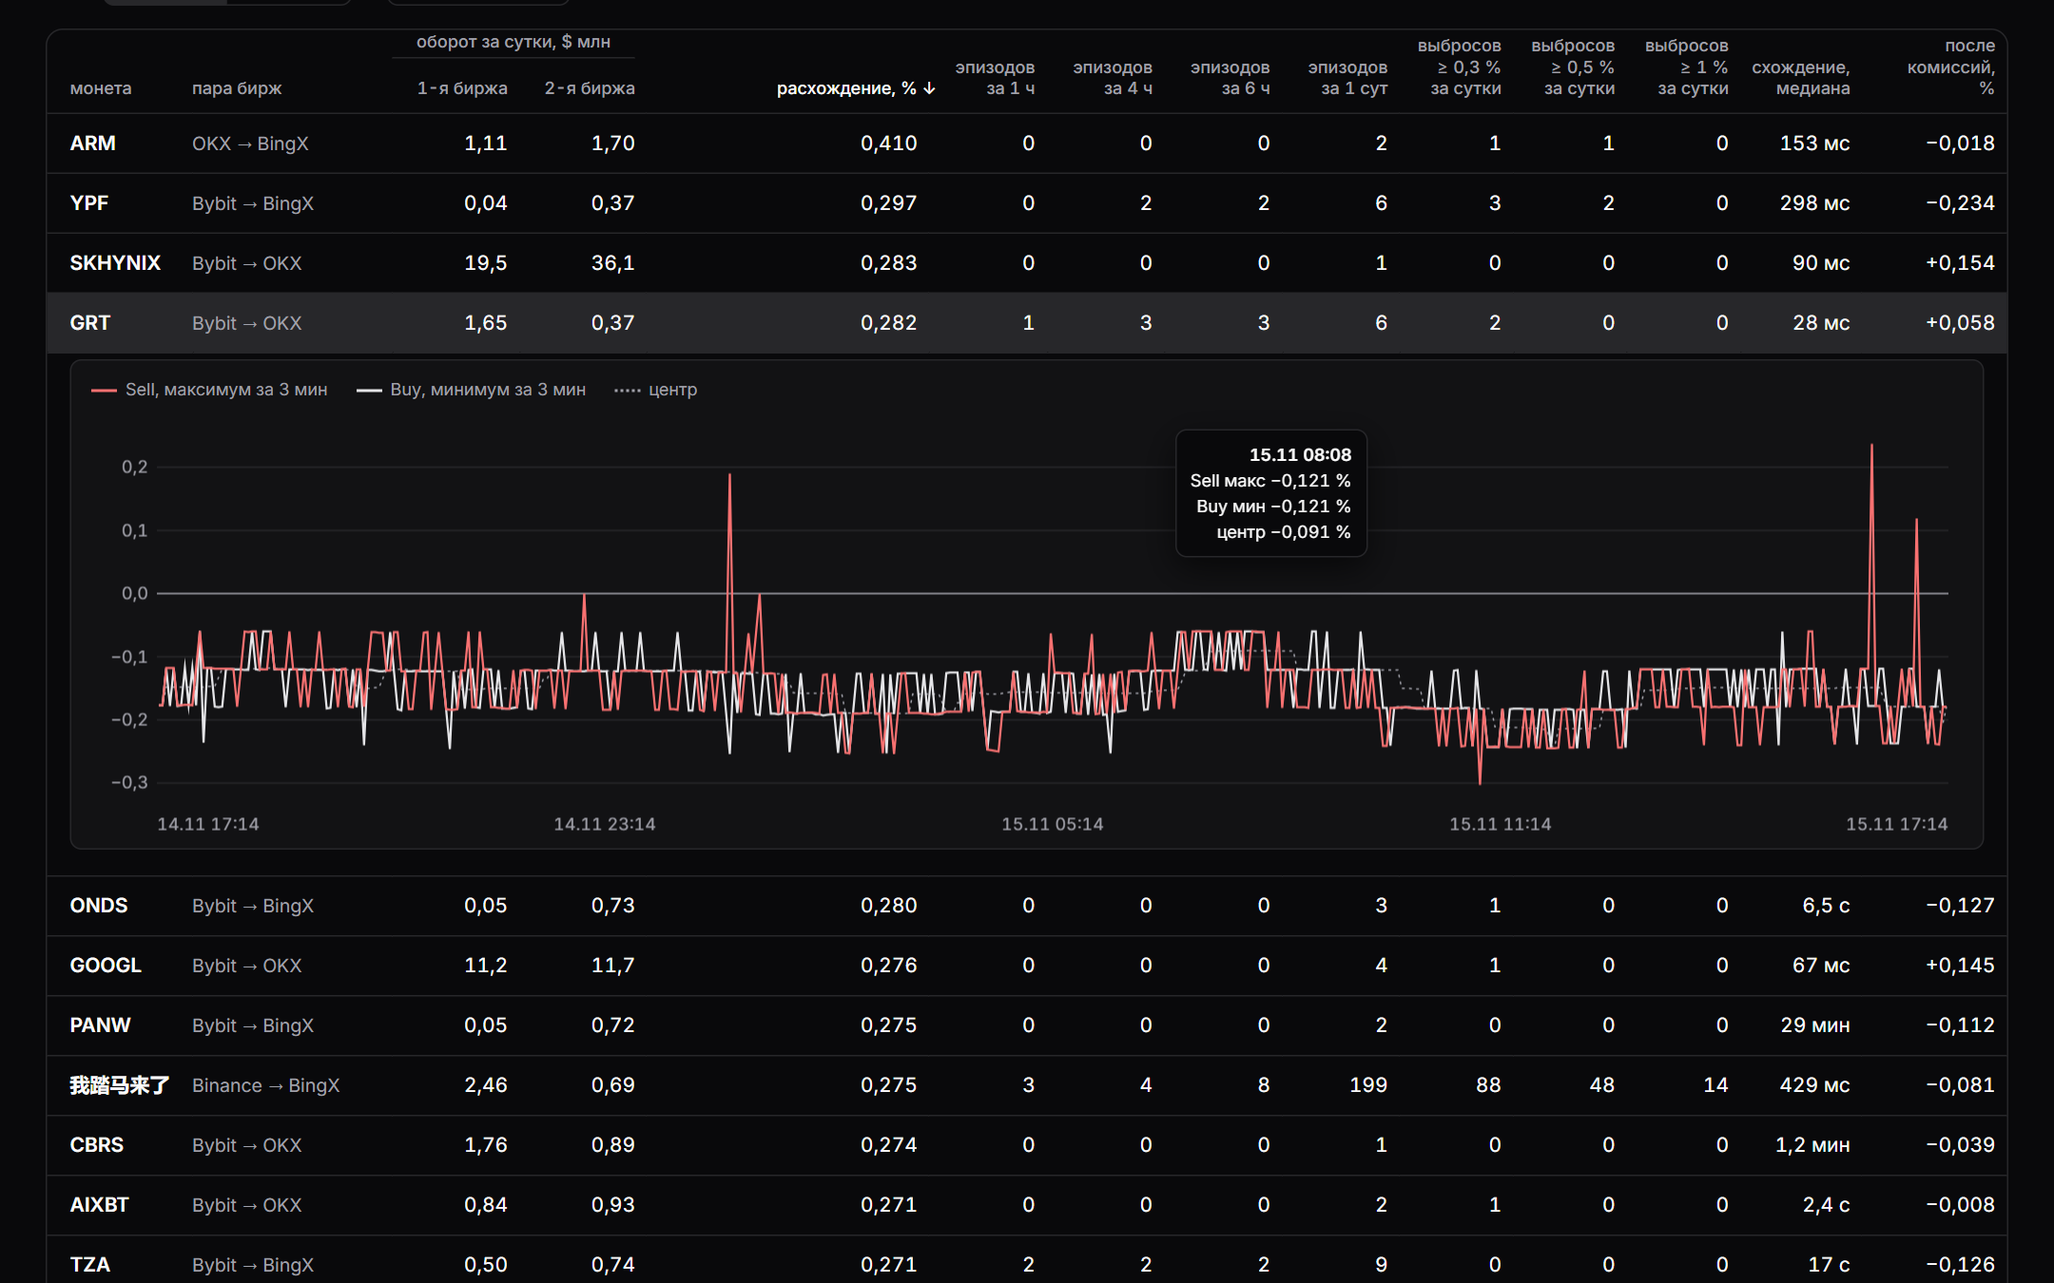
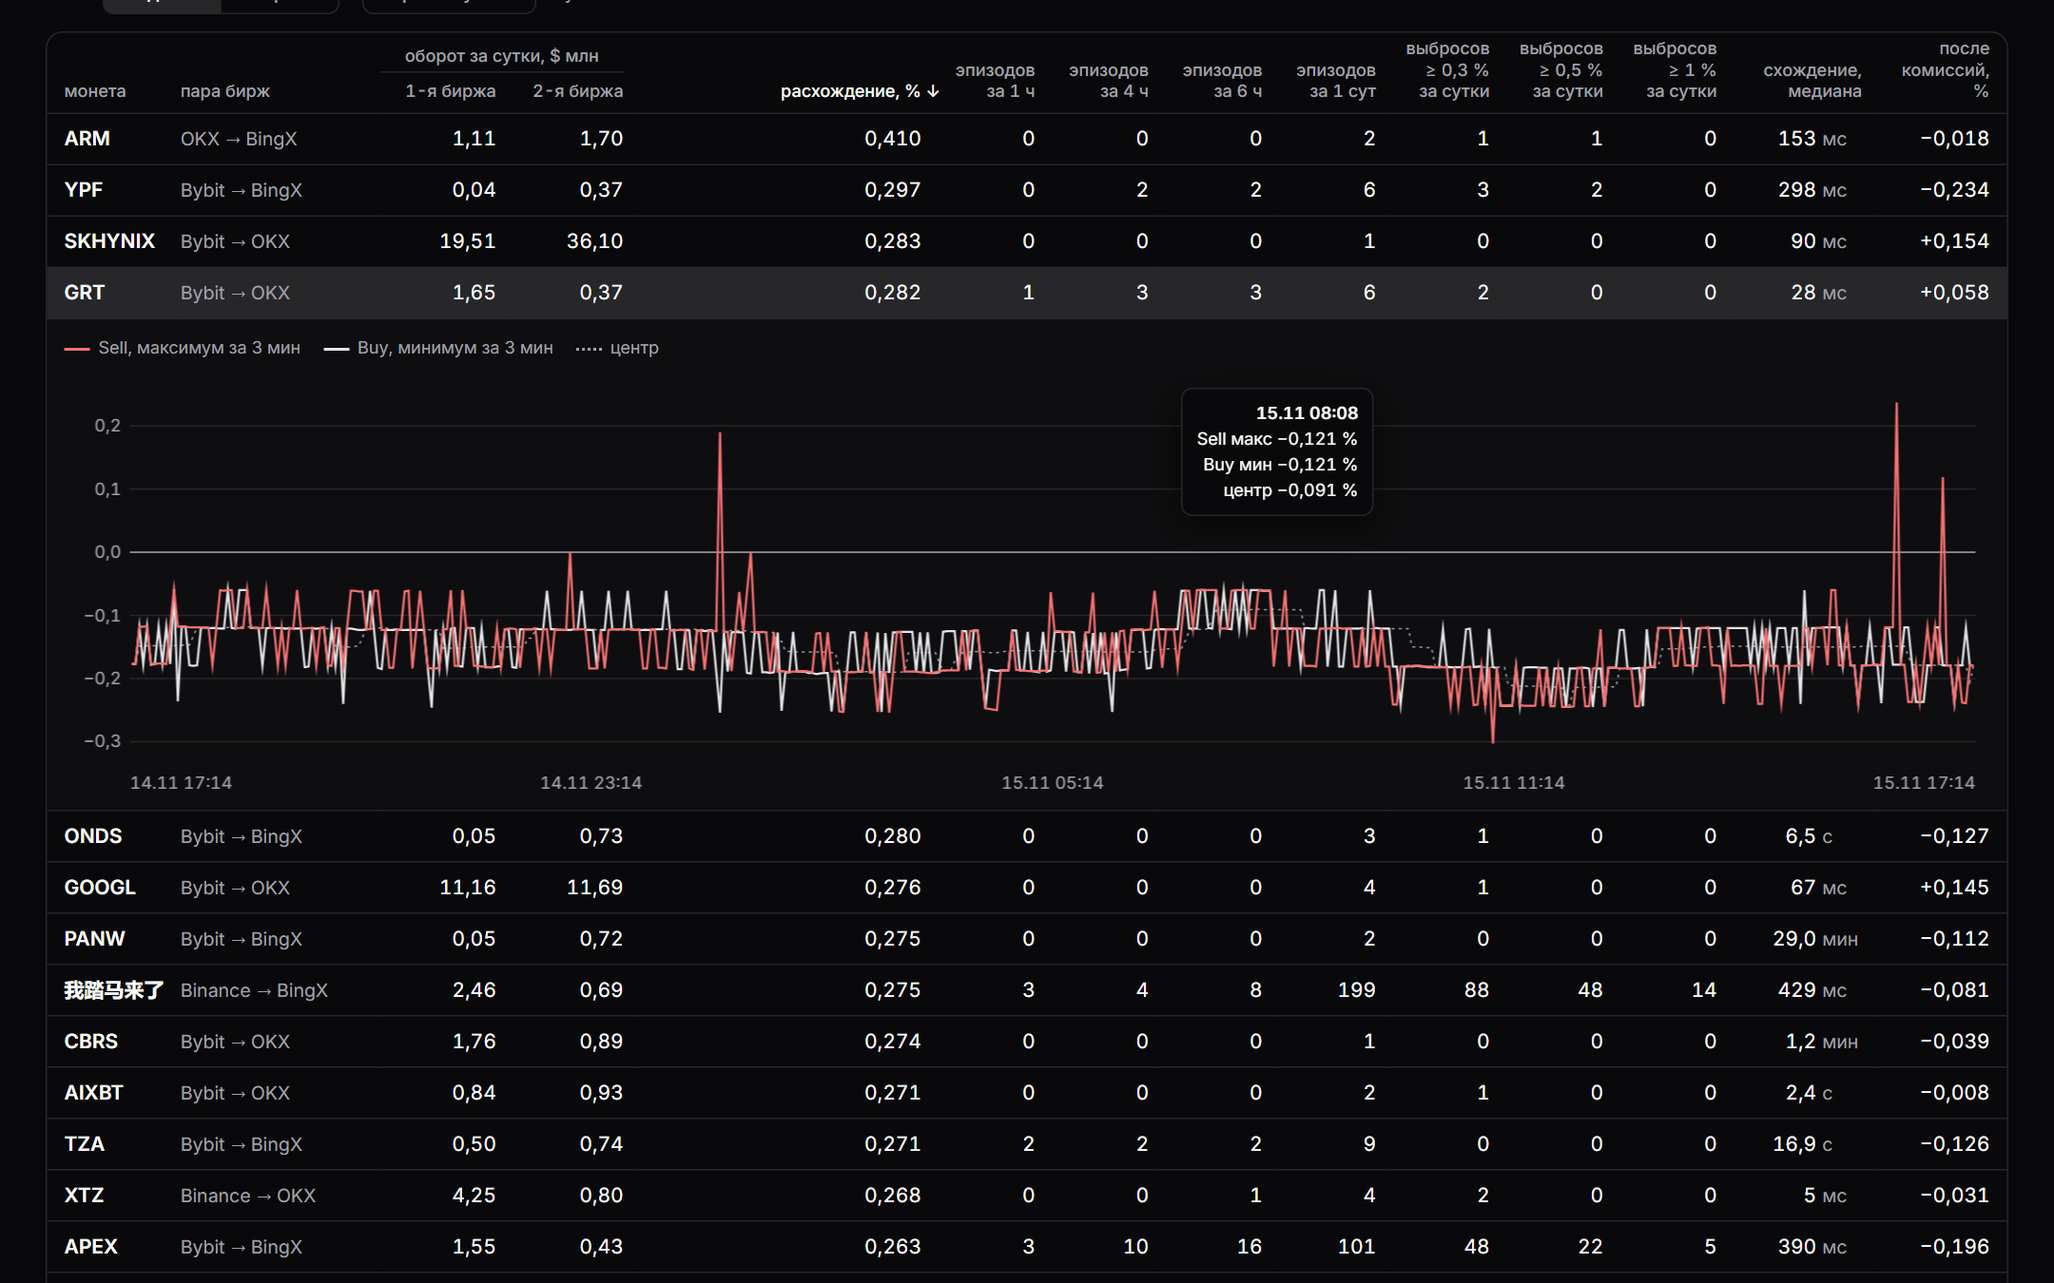
G-022: макет shadcn по слову владельца — карточки оборота по биржам убраны, вёрстка компактнее (строка 36 px, шкала отступов 4 px, фиксированные знаки, график вровень с таблицей)

diff --git a/tools/collector_health/page-shadcn.html b/tools/collector_health/page-shadcn.html
@@ -16,10 +16,10 @@
 --acc:#f87171;--sell:#f87171;--buy:#e4e4e7;--ok:#2eb88a;--bad:#ef4444;--nolog:#3f3f46;--grid:#27272a}
 *{box-sizing:border-box}
 html{overflow-y:scroll}
-body{margin:0;background:var(--background);color:var(--foreground);font:14px/1.45 "Inter",ui-sans-serif,system-ui,"Segoe UI",Roboto,Arial,sans-serif;padding:28px 32px 40px;font-variant-numeric:tabular-nums;font-feature-settings:"tnum" 1,"cv11" 1;-webkit-font-smoothing:antialiased}
+body{margin:0;background:var(--background);color:var(--foreground);font:14px/1.45 "Inter",ui-sans-serif,system-ui,"Segoe UI",Roboto,Arial,sans-serif;padding:24px 32px 32px;font-variant-numeric:tabular-nums;font-feature-settings:"tnum" 1,"cv11" 1;-webkit-font-smoothing:antialiased}
 [hidden]{display:none!important}
 /* шапка + Tabs */
-.top{display:flex;align-items:center;gap:20px;margin-bottom:20px;height:36px}
+.top{display:flex;align-items:center;gap:16px;margin-bottom:24px;height:36px}
 .top h1{font-size:18px;font-weight:600;margin:0;letter-spacing:-.01em}
 .top .t{margin-left:auto;color:var(--muted-foreground);font-size:13px}
 .tabs{display:inline-flex;align-items:center;height:36px;padding:3px;border-radius:calc(var(--radius) + 2px);background:var(--muted);color:var(--muted-foreground)}
@@ -29,24 +29,15 @@ body{margin:0;background:var(--background);color:var(--foreground);font:14px/1.4
 .tabs button:focus-visible,.tg button:focus-visible{box-shadow:0 0 0 2px var(--background),0 0 0 4px var(--ring)}
 /* Card */
 .card{border:1px solid var(--border);border-radius:calc(var(--radius) + 4px);background:var(--card);color:var(--card-foreground);box-shadow:0 1px 2px rgba(0,0,0,.4)}
-.cards-h{display:flex;align-items:baseline;gap:10px;margin:0 0 10px;height:20px}
-.cards-h b{font-size:14px;font-weight:600}
-.cards-h span{font-size:12px;color:var(--muted-foreground)}
-.cards{display:grid;grid-template-columns:repeat(4,minmax(0,1fr));gap:16px;margin:0 0 24px;height:112px}
-.cards .card{padding:14px 20px;display:flex;flex-direction:column;justify-content:space-between;min-width:0}
-.cards .nm{font-size:14px;font-weight:500;color:var(--muted-foreground);display:flex;justify-content:space-between;align-items:baseline;line-height:20px}
-.cards .ft{font-size:12px;color:var(--muted-foreground);line-height:16px;white-space:nowrap;overflow:hidden;text-overflow:ellipsis}
-.cards .tv{font-size:26px;font-weight:600;letter-spacing:-.02em;line-height:1;white-space:nowrap}
-.cards .tv small{font-size:14px;font-weight:500;color:var(--muted-foreground);margin-left:6px;letter-spacing:0}
 /* ToggleGroup / Toggle (outline) */
-.flt{display:flex;gap:0;margin:0 0 12px;flex-wrap:nowrap;height:36px;align-items:center}
-.ctl{display:flex;gap:24px;margin:0 0 16px;align-items:center;height:36px}
+.flt{display:flex;gap:0;margin:0 0 12px;flex-wrap:nowrap;height:32px;align-items:center}
+.ctl{display:flex;gap:16px;margin:0 0 12px;align-items:center;height:32px}
 .ctl .g{display:flex;align-items:center;gap:12px}
 .ctl .g>span{color:var(--muted-foreground);font-size:13px}
 .ctl .g .grp{display:flex}
-.ctl .cnt{display:inline-block;width:150px;color:var(--muted-foreground);font-size:12px;white-space:nowrap}
+.ctl .cnt{display:inline-block;width:144px;color:var(--muted-foreground);font-size:12px;white-space:nowrap}
 .ctl .upd{margin-left:auto;color:var(--muted-foreground);font-size:12px;white-space:nowrap}
-.tg button{all:unset;box-sizing:border-box;cursor:pointer;display:inline-flex;align-items:center;justify-content:center;white-space:nowrap;height:36px;padding:0 12px;border:1px solid var(--input);background:transparent;color:var(--muted-foreground);font:500 14px/1 "Inter",system-ui,sans-serif;transition:background .15s,color .15s}
+.tg button{all:unset;box-sizing:border-box;cursor:pointer;display:inline-flex;align-items:center;justify-content:center;white-space:nowrap;height:32px;padding:0 12px;border:1px solid var(--input);background:transparent;color:var(--muted-foreground);font:500 13px/1 "Inter",system-ui,sans-serif;transition:background .15s,color .15s}
 .tg button:hover{background:var(--accent);color:var(--accent-foreground)}
 .tg button.on{background:var(--accent);color:var(--accent-foreground)}
 .flt button,.ctl .grp button{border-radius:0;margin-left:-1px}
@@ -58,18 +49,19 @@ body{margin:0;background:var(--background);color:var(--foreground);font:14px/1.4
 /* Table */
 .tw{border:1px solid var(--border);border-radius:calc(var(--radius) + 4px);background:var(--card);overflow:hidden}
 table.a{border-collapse:collapse;width:100%;table-layout:fixed;font-variant-numeric:tabular-nums}
-table.a th{font-weight:500;font-size:12px;line-height:1.25;color:var(--muted-foreground);text-align:right;vertical-align:bottom;height:58px;padding:0 8px 10px 0;cursor:pointer;white-space:normal;user-select:none;transition:color .15s}
-table.a thead tr:first-child th:first-child,table.a td:first-child{padding-left:16px}
+table.a th{font-weight:500;font-size:12px;line-height:1.25;color:var(--muted-foreground);text-align:right;vertical-align:bottom;height:56px;padding:0 8px 8px 0;cursor:pointer;white-space:normal;user-select:none;transition:color .15s}
+table.a thead tr:first-child th:first-child,table.a td:first-child{padding-left:12px}
+table.a thead tr:first-child th:last-child,table.a td:last-child{padding-right:12px}
 table.a th.l,table.a td.l{text-align:left}
 table.a th:hover,table.a th.on{color:var(--foreground)}
-table.a th.gh{height:24px;padding:0 8px 4px 0;cursor:default;text-align:center;color:var(--muted-foreground);vertical-align:bottom}
+table.a th.gh{height:28px;padding:0 8px 0 0;cursor:default;text-align:center;color:var(--muted-foreground);vertical-align:bottom}
 table.a th.gh{white-space:nowrap}
-table.a th.gh span{display:block;border-bottom:1px solid var(--border);padding-bottom:4px}
-table.a tr.sub th{height:34px;white-space:nowrap}
+table.a th.gh span{display:block;border-bottom:1px solid var(--border);padding-bottom:4px;line-height:15px}
+table.a tr.sub th{height:28px;white-space:nowrap}
+table.a td i.un{display:inline-block;width:28px;margin-left:4px;text-align:left;font-style:normal;color:var(--muted-foreground);font-size:13px}
 .hl{position:relative;display:inline-block}
 .hl .ar{position:absolute;left:100%;bottom:0;margin-left:3px;font-style:normal}
-table.a td{padding:0 8px 0 0;height:42px;text-align:right;border-top:1px solid var(--border);font-size:14px;white-space:nowrap;overflow:hidden;text-overflow:ellipsis}
-table.a td.l{padding-right:8px}
+table.a td{padding:0 8px 0 0;height:36px;text-align:right;border-top:1px solid var(--border);font-size:14px;white-space:nowrap;overflow:hidden;text-overflow:ellipsis}
 table.a tr.r{cursor:pointer;transition:background .1s}
 table.a tr.r:hover td{background:#18181b;box-shadow:1px 0 0 #18181b}
 table.a tr.r:has(+tr.ch) td{background:var(--muted);box-shadow:1px 0 0 var(--muted)}
@@ -77,16 +69,16 @@ table.a td.c{font-weight:600}
 table.a td.p{color:var(--muted-foreground);font-size:13px}
 table.a td.none{color:var(--nolog)}
 table.a td.hot{color:var(--sell);font-weight:600}
-table.a tr.ch td{padding:0 0 18px;height:auto;background:transparent!important;cursor:default;overflow:visible}
-table.a tr.ch .box{margin:4px 16px 0;padding:12px 14px 6px;border:1px solid var(--border);border-radius:var(--radius);background:rgba(24,24,27,.6)}
+table.a tr.ch td{padding:0;height:auto;background:transparent!important;cursor:default;overflow:visible}
+table.a tr.ch .box{margin:0;padding:12px 12px 8px;background:#0e0e10}
 table.a tr.sp td{padding:0;border:0;line-height:0;font-size:0;cursor:default}
 .cwrap{position:relative;height:300px}
 .cwrap canvas{display:block;width:100%;height:300px}
 .cwrap .ld{position:absolute;left:0;top:130px;width:100%;text-align:center;color:var(--muted-foreground);font-size:13px}
-.lg{display:flex;gap:20px;font-size:12px;color:var(--muted-foreground);margin:0 0 8px;height:16px;white-space:nowrap;align-items:center}
+.lg{display:flex;gap:16px;font-size:12px;color:var(--muted-foreground);margin:0 0 8px;height:16px;white-space:nowrap;align-items:center}
 .lg i{display:inline-block;width:18px;height:0;border-top:2px solid;vertical-align:middle;margin-right:6px}
 .lg b{display:inline-block;width:18px;height:10px;vertical-align:middle;margin-right:6px;border-radius:2px}
-.pend{color:var(--muted-foreground);font-size:14px;padding:30px 0}
+.pend{color:var(--muted-foreground);font-size:14px;padding:24px 0}
 /* Popover (подсказки) */
 .pop{position:absolute;pointer-events:none;background:var(--popover);color:var(--popover-foreground);border:1px solid var(--border);border-radius:var(--radius);padding:8px 10px;font-size:12px;line-height:1.5;white-space:nowrap;opacity:0;z-index:5;box-shadow:0 8px 24px rgba(0,0,0,.6)}
 .pop b{font-weight:600}.pop .a{color:var(--sell)}.pop .m{color:var(--muted-foreground)}
@@ -125,7 +117,6 @@ dt{font-size:12px;color:var(--muted-foreground)}dd{margin:2px 0 0;font-size:14px
 </section>
 
 <section id="p-a">
-<div class="cards-h" id="cards-h"></div><div class="cards" id="cards"></div>
 <div class="flt tg" id="flt"></div>
 <div class="ctl tg" id="ctl"></div>
 <div class="pend" id="pend" hidden></div>
@@ -238,19 +229,18 @@ const dm=t=>{const d=gm(t);return pad(d.getUTCDate())+'.'+pad(d.getUTCMonth()+1)
 const nf=(v,d=1)=>{let s=v.toFixed(d);const i=s.indexOf('.'),a=i<0?s:s.slice(0,i),f=i<0?'':','+s.slice(i+1);return a.replace(/\B(?=(\d{3})+(?!\d))/g,' ')+f};
 const sg=v=>v==null?'—':(v>0?'+':v<0?'−':'')+nf(Math.abs(v),1);
 /* расхождения и итоги приходят в bps, на странице — в %: 1 bps = 0,01 % */
-const pc=v=>nf(v/100,Math.abs(v)<1000?3:2);
-/* оборот: $ -> млн $ (≥ 100 без дробной части, 10…100 — 1 знак, меньше — 2) */
-const mn=v=>{const m=v/1e6;return m<0.005?(v>0?'&lt;\u00a00,01':'0'):nf(m,m>=100?0:m>=10?1:2)};
-const usdBig=v=>v>=1e9?[nf(v/1e9,2),'млрд']:[nf(v/1e6,0),'млн'];
+const pc=v=>nf(v/100,3);                  /* % — всегда 3 знака */
+const mn=v=>nf(v/1e6,2);                  /* оборот, млн $ — всегда 2 знака */
 const sgp=v=>v==null?'—':(v>0?'+':v<0?'−':'')+pc(Math.abs(v));
-function dur(s){if(s==null)return '—';if(s<1)return nf(s*1000,0)+' мс';if(s<60)return nf(s,s<10?1:0)+' с';if(s<3600)return nf(s/60,s<600?1:0)+' мин';return nf(s/3600,1)+' ч'}
+/* длительность: единица в своей колонке справа; мс — целые, с/мин/ч — 1 знак */
+function dur(s){if(s==null)return '—';const u=(n,t)=>n+'<i class="un">'+t+'</i>';if(s<1)return u(nf(s*1000,0),'мс');if(s<60)return u(nf(s,1),'с');if(s<3600)return u(nf(s/60,1),'мин');return u(nf(s/3600,1),'ч')}
 const esc=s=>String(s).replace(/[&<>]/g,c=>({'&':'&amp;','<':'&lt;','>':'&gt;'}[c]));
 let A=null,R=[],K={},EMPTY={},TOT={},view=[],etag=null;
 let st={pair:'all',sort:'size',dir:-1,open:null,mode:'med',hide:false};
-let ROWH=42,CHH=349,OVER=3,win={a:0,b:-1};
+let ROWH=36,CHH=349,OVER=3,win={a:0,b:-1};
 const CH=new Map(),PEND=new Map();
 const at=(a,k)=>a?a[k]:null;
-const W=[7.4,10.2,6.5,6.5,7.2,7.2,6,6,6,6,5.8,5.8,5.8,6.2,7.4];
+const W=[6.8,10.2,6.5,6.5,7.6,7.6,5.8,5.8,5.8,5.8,5.8,5.8,5.8,7.4,6.8];
 /* колонки: kk — имя массива ключей сортировки, v — значение для ячейки */
 function cols(){
   const o=st.mode==='out',m=st.mode;
@@ -290,13 +280,6 @@ function setData(j){
   if(st.open&&!R.some(r=>r.k===st.open))st.open=null;
 }
 function btn(attr,val,on,t,cls){return '<button '+attr+'="'+val+'" data-t="'+t+'" class="'+(on?'on':'')+(cls?' '+cls:'')+'">'+t+'</button>'}
-/* оборот за сутки по биржам: сумма по всем монетам сбора за окно данных */
-function cards(){
-  const T=A.tot;if(!T)return;
-  $('cards-h').innerHTML='<b>Оборот за сутки</b><span>сделки сбора, $, 24 ч до '+hm(A.t1/1000)+' · все монеты, что пишет сборщик</span>';
-  $('cards').innerHTML=Object.keys(A.names).map(ex=>{const t=T[ex];if(!t)return '';const b=usdBig(t[0]);
-    return '<div class="card"><div class="nm">'+A.names[ex]+'</div><div class="tv">$ '+b[0]+'<small>'+b[1]+'</small></div><div class="ft"'+(t[2]?' title="не пишутся: '+esc(t[3].join(', '))+'"':'')+'>'+nf(t[1],0)+' монет'+(t[2]?' · без топ-'+t[2]+' по обороту':'')+'</div></div>'}).join('');
-}
 function flt(){
   const pairs=R.length?[...new Set(R.map(r=>r.pc))]:[];
   $('flt').innerHTML=btn('data-p','all',st.pair==='all','Все')+pairs.map(p=>{const[a,b]=p.split('|');return btn('data-p',p,st.pair===p,A.names[a]+' → '+A.names[b])}).join('');
@@ -394,7 +377,7 @@ function drawChart(){
 }
 function show(){
   const pend=$('pend'),has=A&&!A.pending&&A.rows;
-  $('tw').hidden=!has;$('cards').hidden=$('cards-h').hidden=!has;pend.hidden=!!has;
+  $('tw').hidden=!has;pend.hidden=!!has;
   if(!has)pend.textContent=A&&A.pending?'Статистика считается — первая выдача появится в течение часа.':'Нет связи с сервером.';
 }
 /* опрос: только когда может появиться новое (проход раз в period секунд), с ETag; в скрытой вкладке и скрытой странице — нет */
@@ -416,7 +399,7 @@ async function load(){
     if(dt)skew=dt-Date.now();
     if(!(A&&et&&et===etag)){
       performance.mark('arb-resp');const j=await r.json();etag=et;changed=true;performance.mark('arb-json');
-      setData(j);performance.mark('arb-setdata');show();cards();flt();ctl();head();if(R.length)refresh();performance.mark('arb-painted')
+      setData(j);performance.mark('arb-setdata');show();flt();ctl();head();if(R.length)refresh();performance.mark('arb-painted')
     }
   }catch(e){if(!A){A={};show()}}
   schedule(changed);

diff --git a/tools/arb_stats/build_shadcn_mockup.py b/tools/arb_stats/build_shadcn_mockup.py
@@ -1,8 +1,8 @@
 """Макет вкладки «Арбитраж» в стиле shadcn (тёмная тема) одним HTML-файлом на настоящих данных живой вкладки.
 
-python build_shadcn_mockup.py <page-shadcn.html> <arb.json> <chart.jsonl> <v3.json> <turnover.json> <pools.json> <fonts-dir> <выход.html>
+python build_shadcn_mockup.py <page-shadcn.html> <arb.json> <chart.jsonl> <v3.json> <turnover.json> <fonts-dir> <выход.html>
 Страница та же, что пойдёт в бой (tools/collector_health/page-shadcn.html); подменяется только fetch (/api/arb, /api/arb/chart, /api/v3) — данными снимка,
-шрифты Inter вшиваются data-URI. В строки таблицы добавляется v = [$ первой биржи, $ второй] за окно arb.json, в корень — tot = {биржа: [$ всех монет сбора, монет, исключено топ, имена]}.
+шрифты Inter вшиваются data-URI. В строки таблицы добавляется v = [$ первой биржи, $ второй] за окно arb.json.
 """
 import base64
 import gzip
@@ -16,10 +16,9 @@ def b64(b):
     return base64.b64encode(b).decode()
 
 
-def main(page, arb, chart, v3, turn, pools, fonts, out):
+def main(page, arb, chart, v3, turn, fonts, out):
     A = json.loads(Path(arb).read_text(encoding="utf-8"))
     T = json.loads(Path(turn).read_text())
-    P = json.loads(Path(pools).read_text())
     coin = T["coin"]
     miss = 0
     for r in A["rows"]:
@@ -28,11 +27,6 @@ def main(page, arb, chart, v3, turn, pools, fonts, out):
         if va is None or vb is None:
             miss += 1
         r["v"] = [round(va[0]) if va else 0, round(vb[0]) if vb else 0]
-    A["tot"] = {}
-    for ex in A["names"]:
-        usd = sum(x[0] for x in T["sym"][ex].values())
-        ex_names = P.get(ex, [])
-        A["tot"][ex] = [round(usd), len(T["sym"][ex]), len(ex_names), [s.removesuffix("USDT") for s in ex_names]]
     A["vwin"] = T["win"]["page"]
     html = Path(page).read_text(encoding="utf-8")
     for tag, f in (("cyrillic", "inter-cyrillic-wght-normal.woff2"), ("latin", "inter-latin-wght-normal.woff2")):
@@ -64,8 +58,8 @@ window.fetch=async(u)=>{
     assert html.count("<script>") == 2
     html = html.replace("<script>", shim + "<script>", 1).replace("<title>Сбор данных</title>", "<title>Сбор данных — макет shadcn</title>")
     Path(out).write_text(html, encoding="utf-8")
-    print({"rows": len(A["rows"]), "rows_without_turnover": miss, "bytes": len(html), "chart_gz": len(cz), "tot": {k: v[:3] for k, v in A["tot"].items()}})
+    print({"rows": len(A["rows"]), "rows_without_turnover": miss, "bytes": len(html), "chart_gz": len(cz)})
 
 
 if __name__ == "__main__":
-    main(*sys.argv[1:9])
+    main(*sys.argv[1:8])
